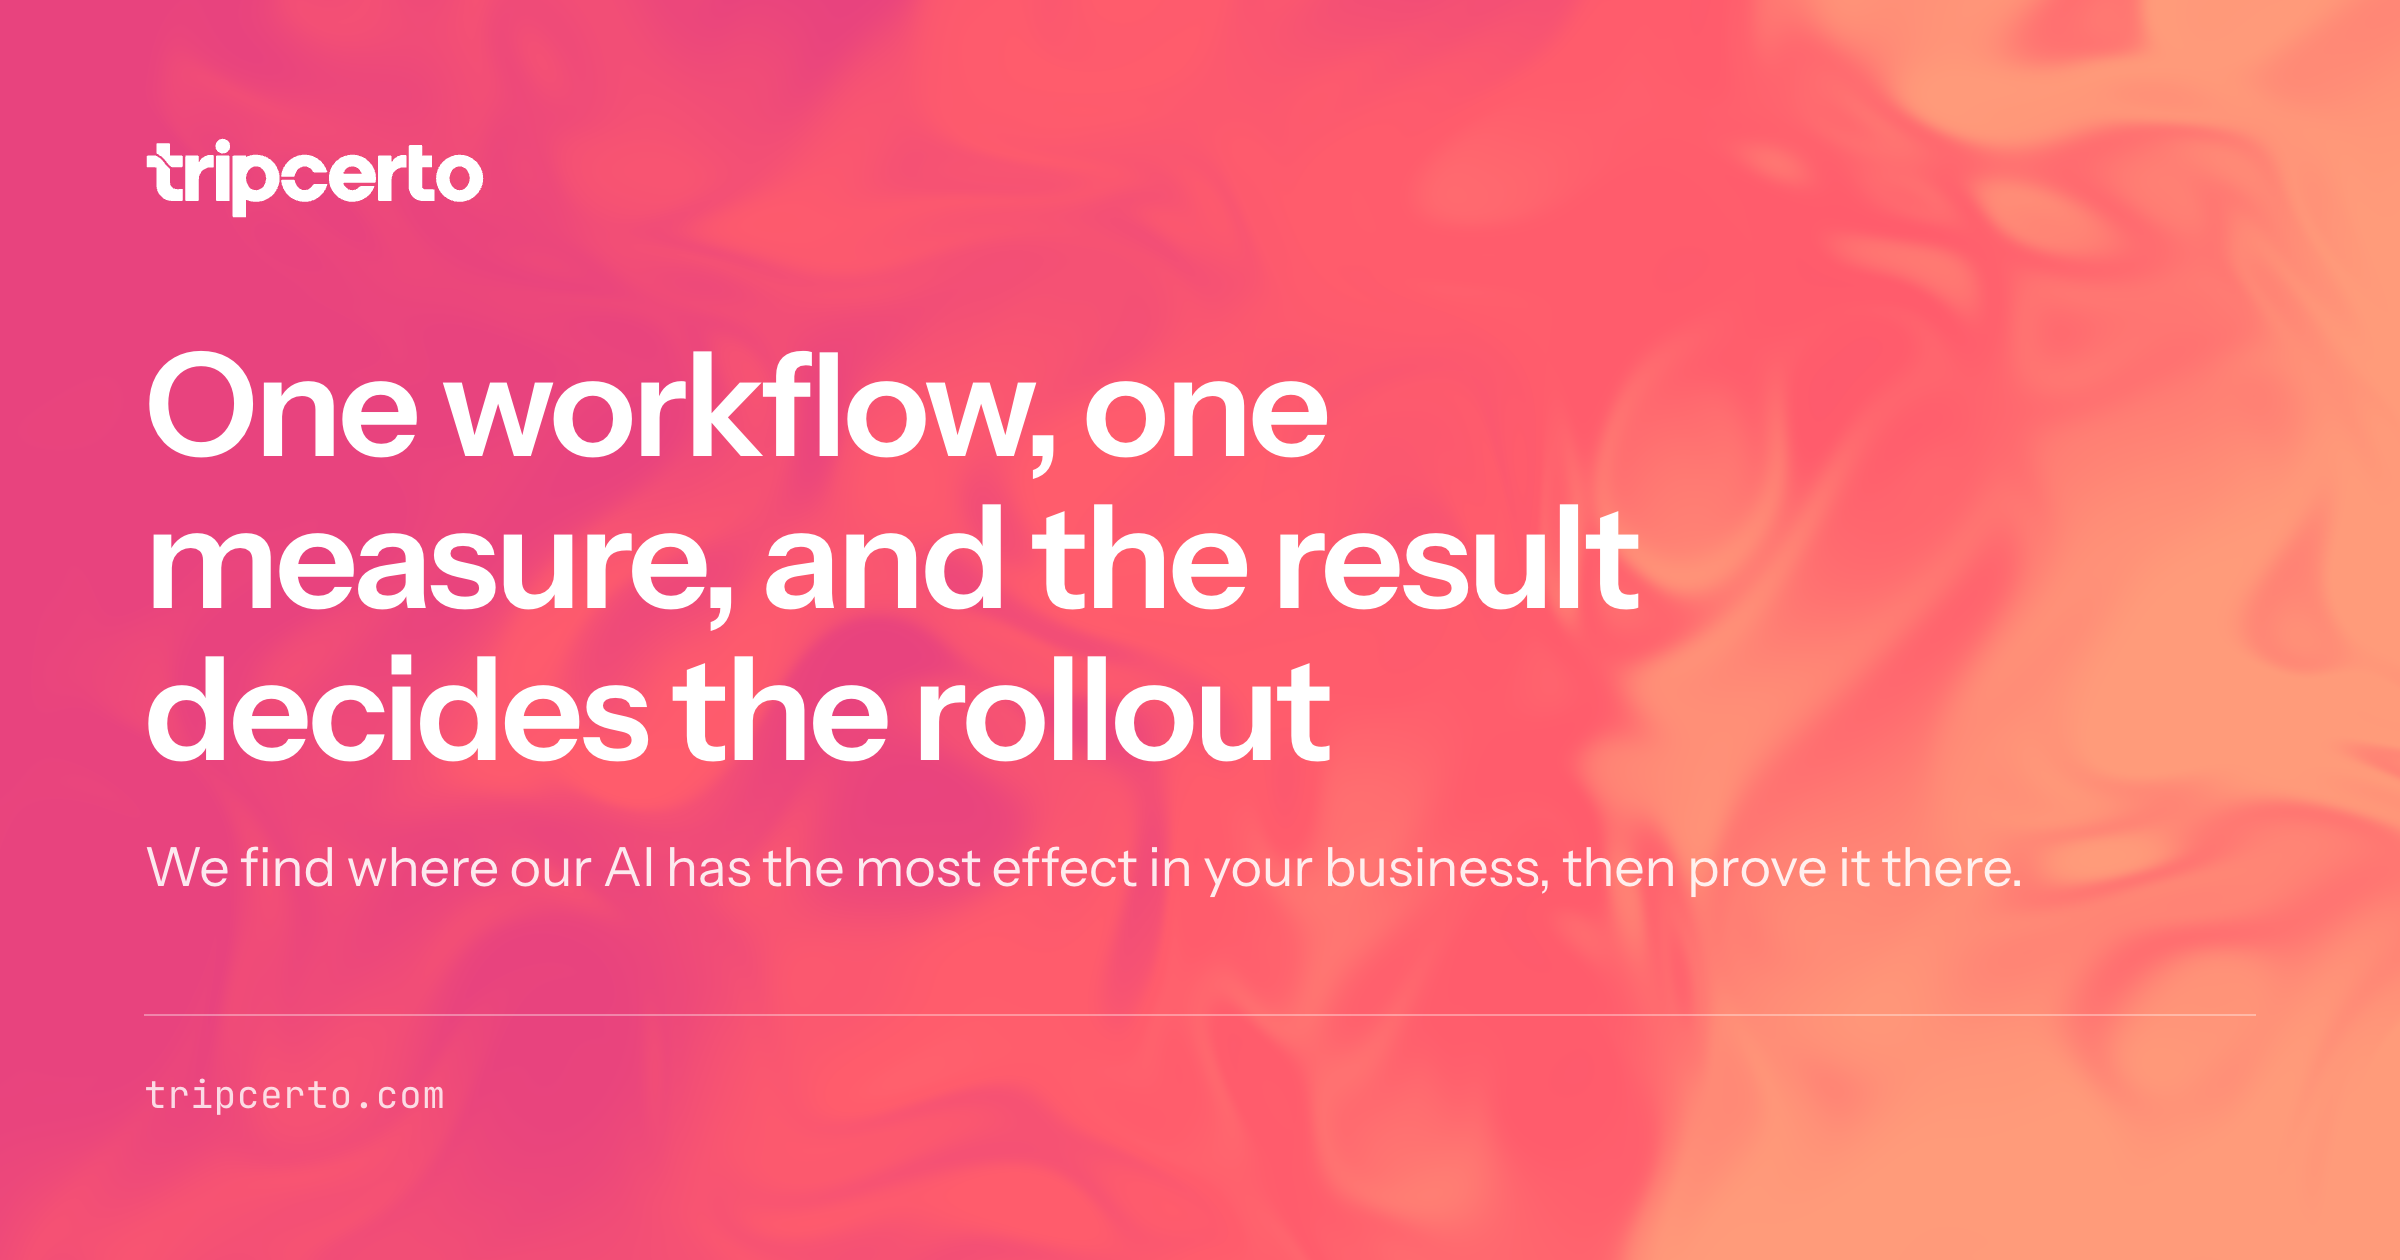
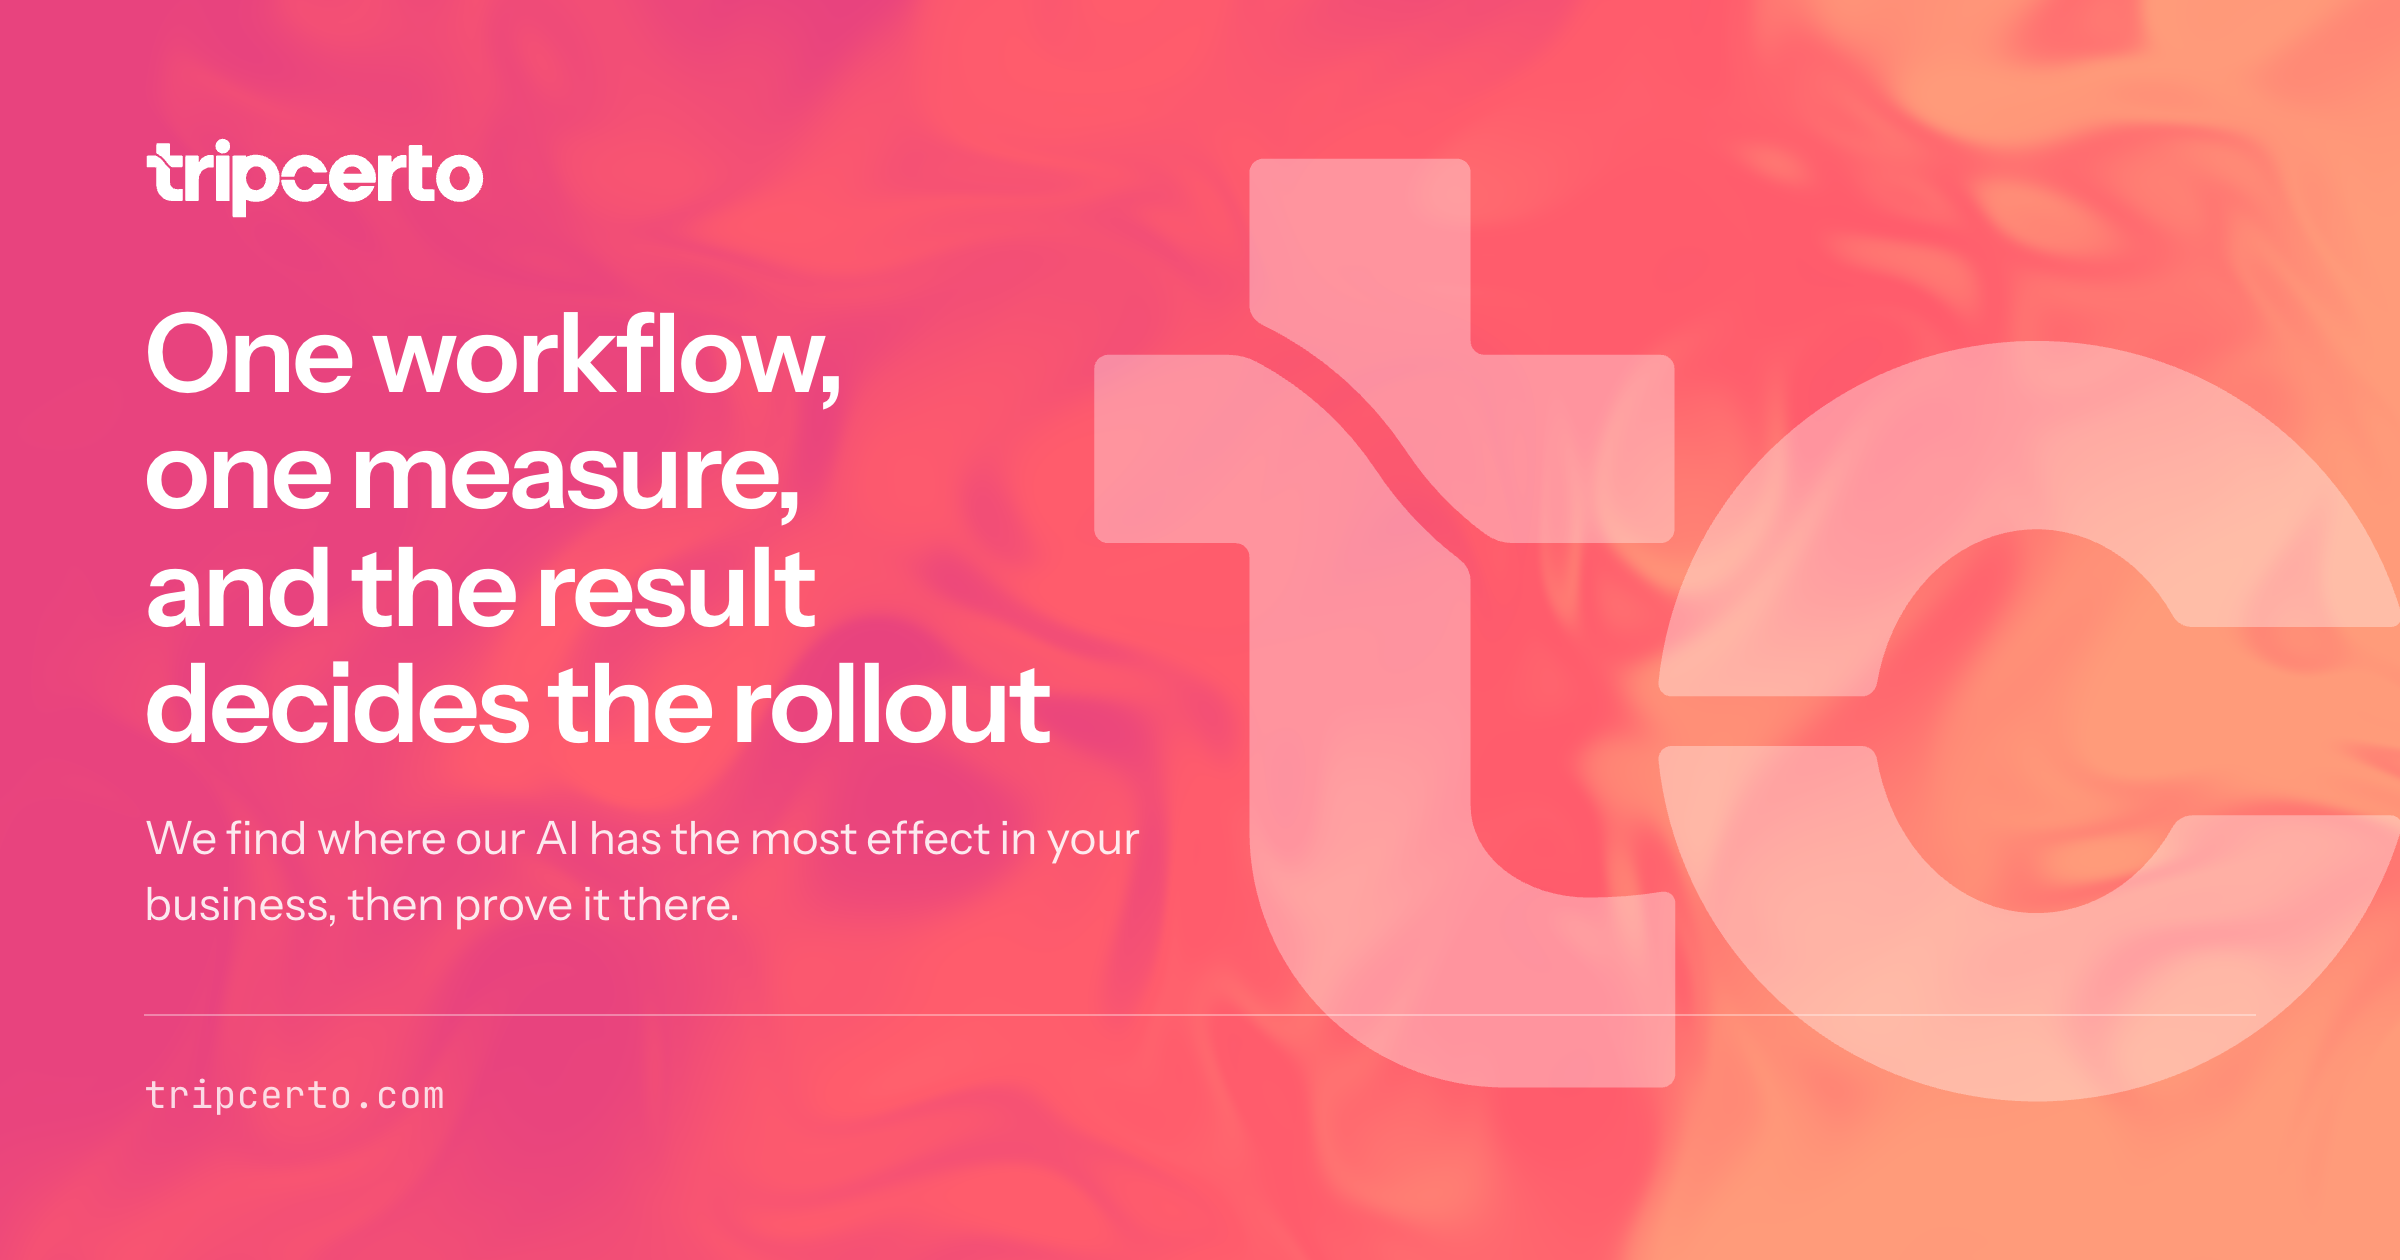
The monogram carries the card, and the headline holds a compact column
Taylor's composition, signed off 22 Sep. The band card keeps everything it
had; the monogram joins it from the light card as a large white ghost off the
right edge, and the headline gives it room.

- The ghost moves to the shared styles, since both variants use it now. Each
  variant sets its own weight: ink at 0.09 on the light card, white at 0.24
  on the band.
- The band headline is 55px on a 540px measure, its sub line 23px on the same.
  The longest headline on the site, the Pilot page's, takes four lines and
  clears the rule.

Changed region(s): [[0.0625, 0.1238, 1.0, 0.8976]]

diff --git a/scripts/og/card.html b/scripts/og/card.html
@@ -146,14 +146,26 @@
         gap: 24px;
       }
 
+      /* The monogram as a ghost off the right edge: our own artwork standing
+         in for a photograph, at a weight that never competes with the type.
+         Ink on the light card, white on the band; each variant sets which. */
+      .ghost {
+        position: absolute;
+        right: -118px;
+        top: 50%;
+        transform: translateY(-50%);
+        width: 560px;
+      }
+
       /* ---- A. Band ------------------------------------------------------ */
       .v-a .head {
-        font-size: 72px;
-        max-width: 950px;
+        font-size: 55px;
+        max-width: 540px;
         color: var(--paper);
       }
       .v-a .sub {
-        font-size: 27px;
+        font-size: 23px;
+        max-width: 540px;
         color: rgb(255 255 255 / 0.88);
         margin-top: 22px;
       }
@@ -164,6 +176,11 @@
         height: 1px;
         background: rgb(255 255 255 / 0.35);
         margin-bottom: 26px;
+      }
+      .v-a .ghost {
+        right: -24px;
+        width: 700px;
+        opacity: 0.34;
       }
 
       /* ---- B. Paper ----------------------------------------------------- */
@@ -189,14 +206,7 @@
       .v-b .url {
         color: var(--muted);
       }
-      /* The monogram as a ghost off the right edge: our own artwork standing
-         in for a photograph, at a weight that never competes with the type. */
-      .ghost {
-        position: absolute;
-        right: -118px;
-        top: 50%;
-        transform: translateY(-50%);
-        width: 560px;
+      .v-b .ghost {
         opacity: 0.09;
       }
       /* The band held to a strip at the foot, the way the page ends on it. */
@@ -639,6 +649,7 @@
         a: () => `
           <div class="card v-a">
             <div class="ground" id="band"><div></div></div>
+            <img class="ghost" src="../../public/brand/monogram-white.svg" alt="" />
             <div class="layer row"><div>${wordmark('paper')}</div></div>
             <div class="layer">
               <h1 class="head">${esc(copy.head)}</h1>

diff --git a/HANDOFF.md b/HANDOFF.md
@@ -302,7 +302,13 @@ without a new ask from him.
   own and its `og:image:alt` says what that card says. 2400x1260, declared at
   that size.
 - Variant `a` is the site's own hero: the Ember band, the page's headline, its
-  sub line, the wordmark and tripcerto.com. `b` is the light page, `c` a dark
+  sub line, the wordmark and tripcerto.com, with the monogram as a large white
+  ghost off the right edge. Taylor set that composition on 22 Sep and signed
+  it off ("this is the one"): the headline is a compact left column (55px,
+  540px measure) and the mark is deliberately strong (700px, 0.24 opacity, off
+  the right edge by 24px). It carries the longest headline on the site, the
+  Pilot page's, in four lines with room left. Do not enlarge the type or fade
+  the mark without a new ask. `b` is the light page, `c` a dark
   glass card, `d` the light page with the phone and quote-grid artwork, `e` a
   split band over Engage and Workspace columns. To change the set, rerun the
   command with a different letter, bump the `?v=` on every page's `og:image`
